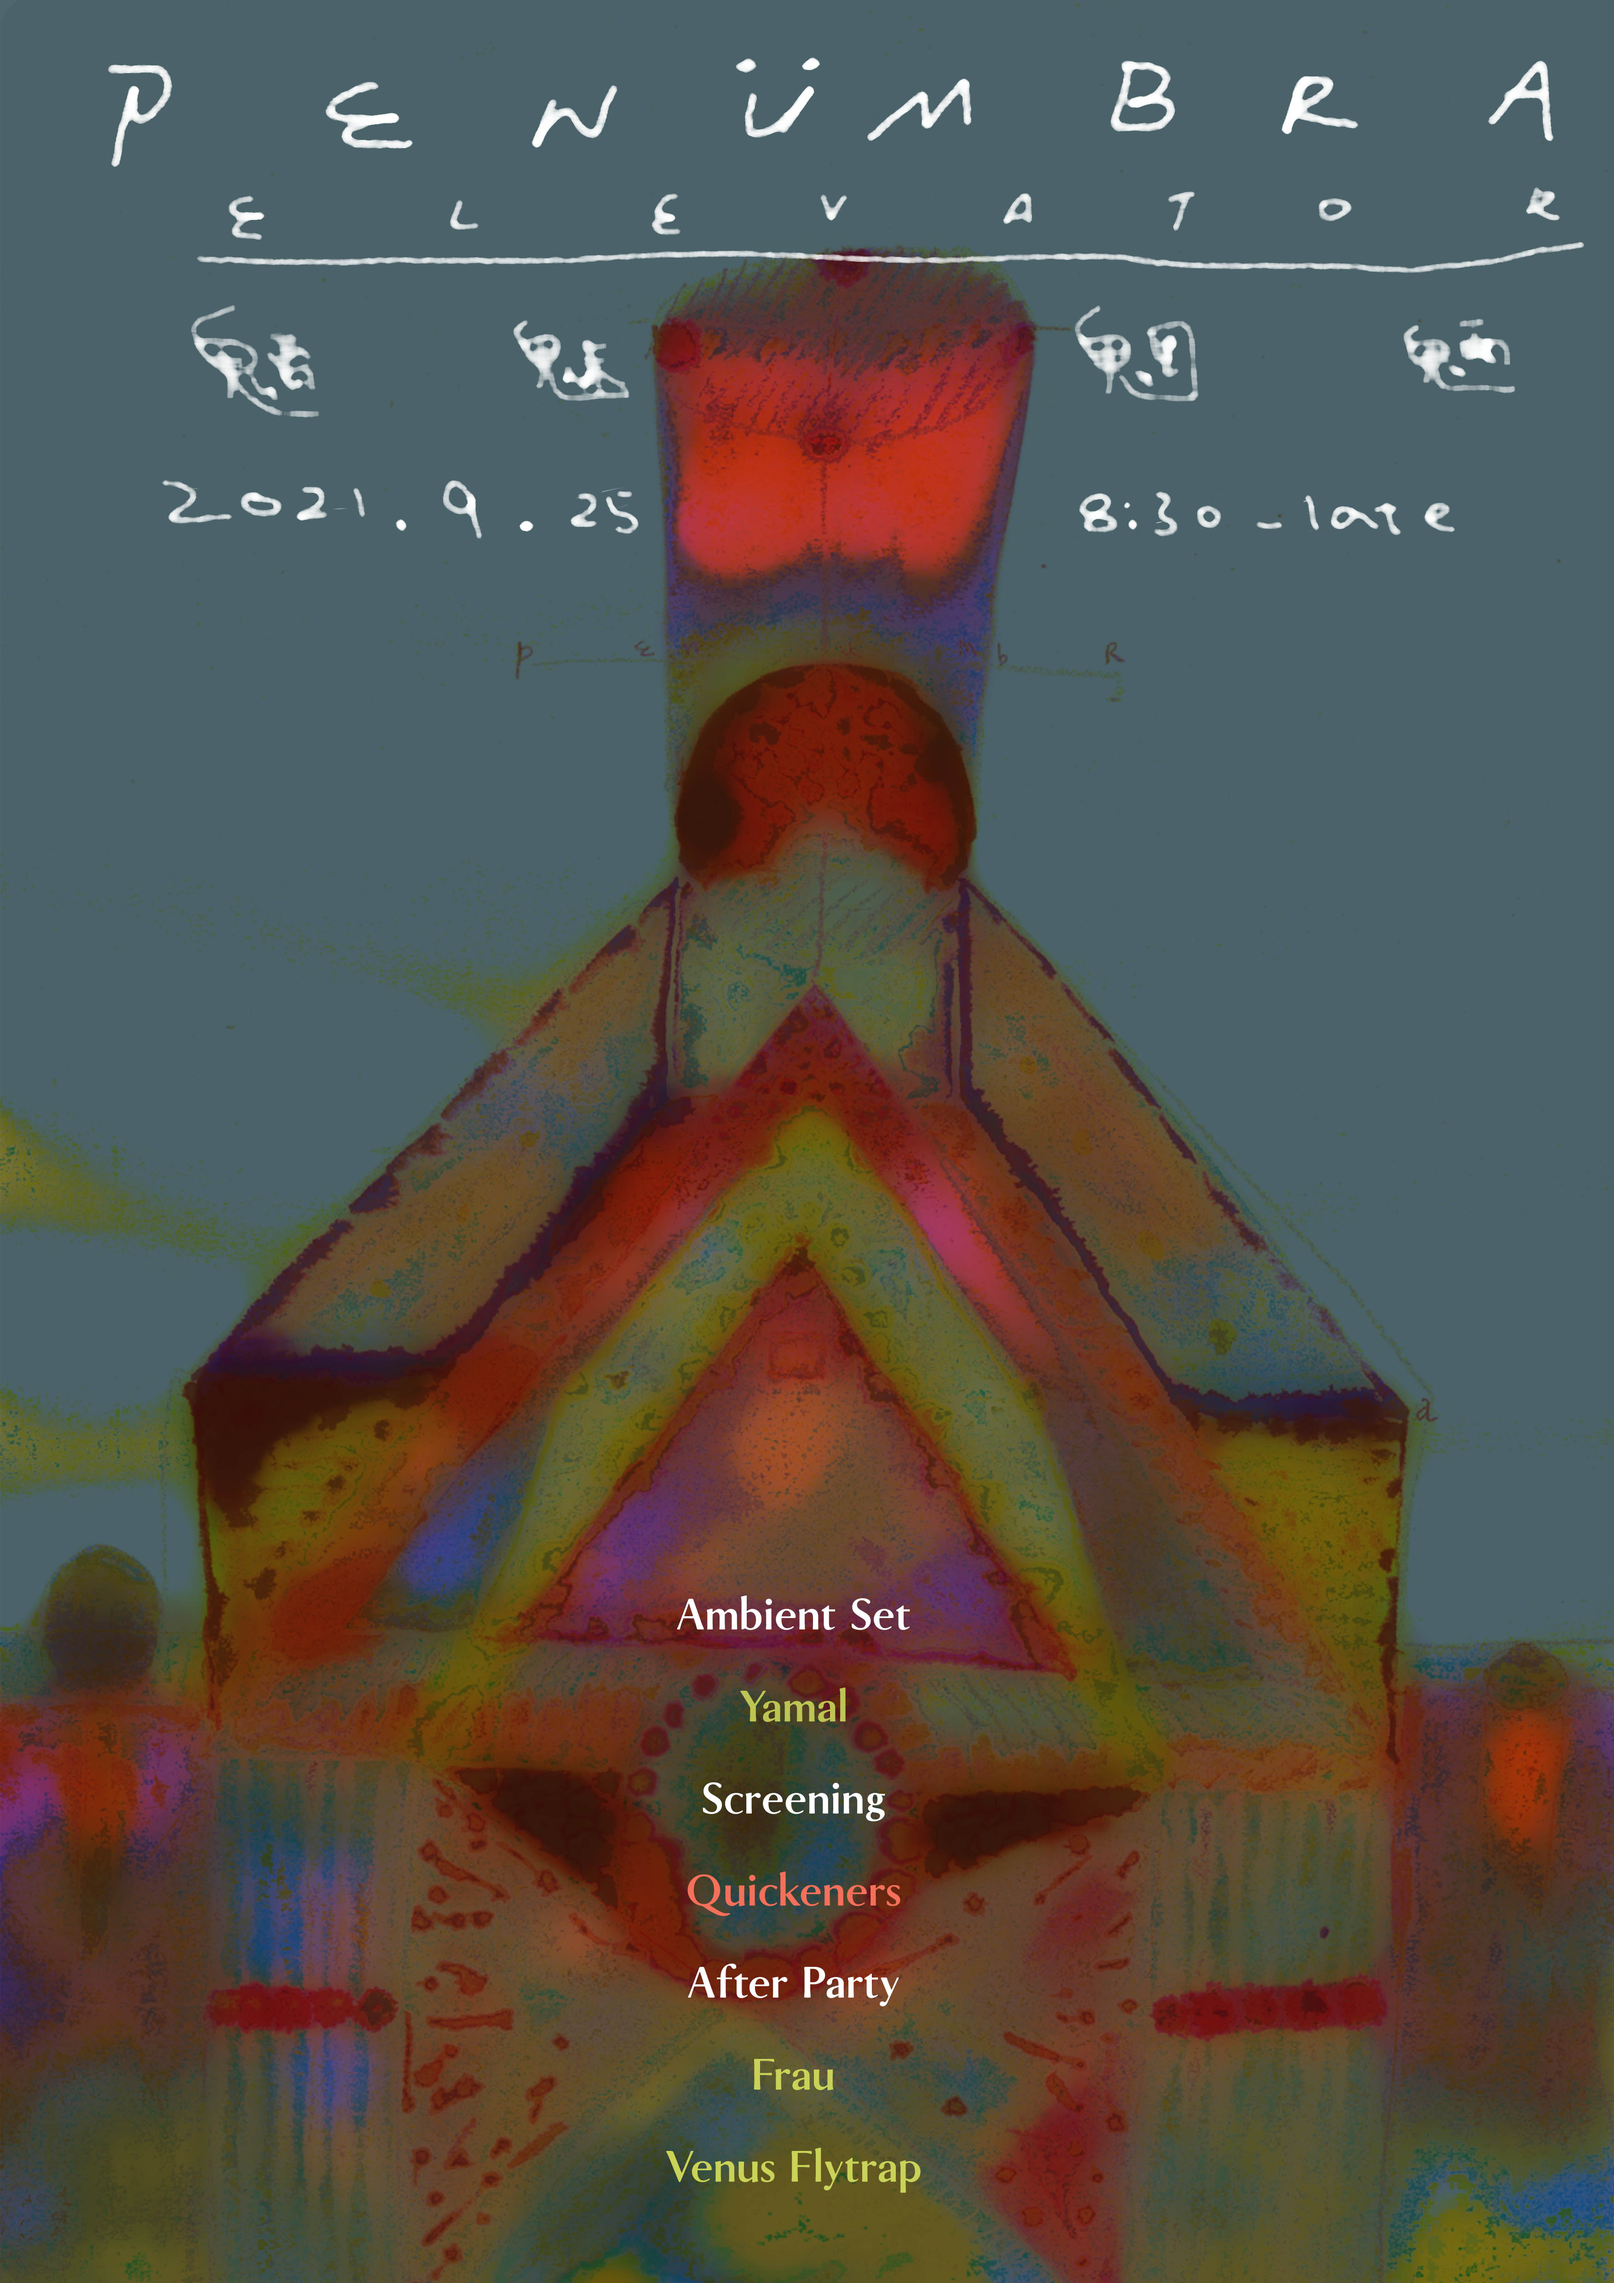
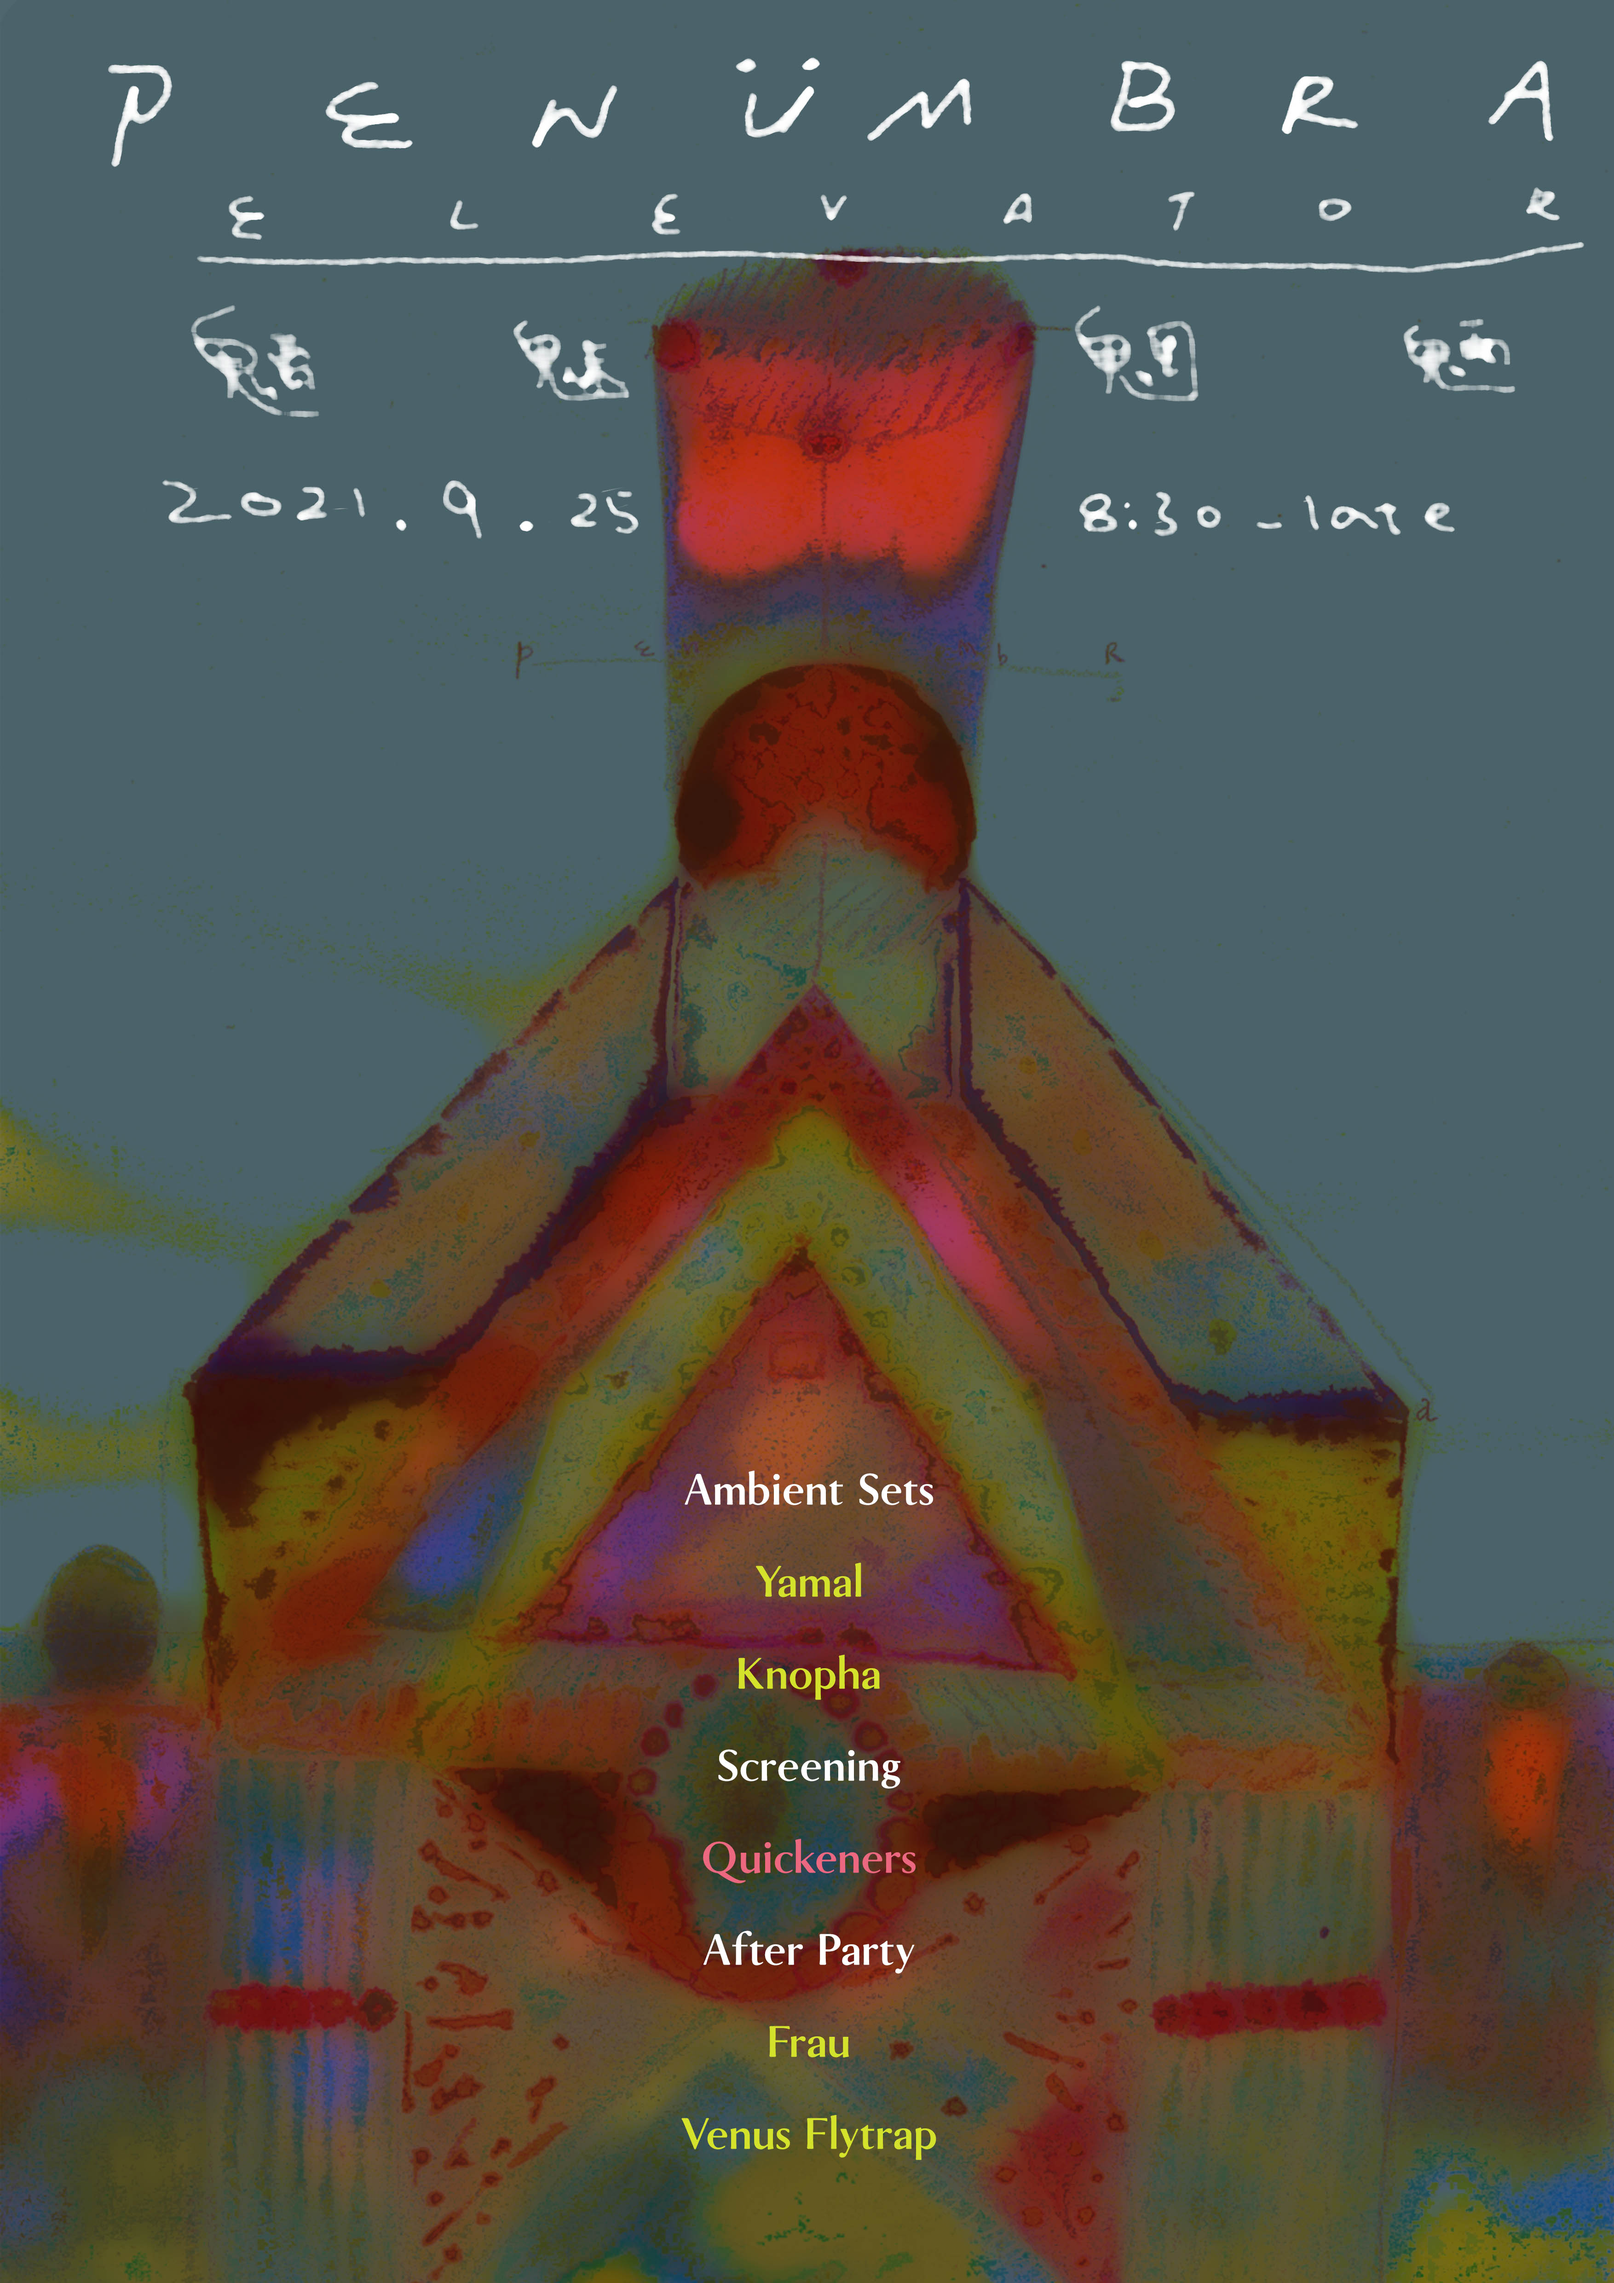
Add Knopha.

Changed region(s): [[0.4039, 0.6874, 0.5904, 0.9686], [0.435, 0.6249, 0.4971, 0.6561]]

diff --git a/_posts/projects/2021-09-21-penumbra-2.md b/_posts/projects/2021-09-21-penumbra-2.md
@@ -46,4 +46,4 @@ images:
 
 
 ---
-<p>For the second iteration of Penumbra, <a href="https://www.instagram.com/zuihitsu/">Yamal</a> will play an all vinyl ambient set, followed by a screening of Jeremy Shaw’s film <em>Quickeners</em> (2014), constructed with appropriated footage from the ethnographic film <em>Holy Ghost People</em> (1967), about a snake-handling Pentecostal community in rural USA. Transformed into a documentary set 500 years into the future, when humans have been replaced by a post-human collectivity called The Hive, the film describes a renegade community who seek Quickening, in which long extinct human rituals and their ecstatic states may be re-experienced. The soundtrack to the film itself contributes to the sense of post-human disorientation, with scrambled speech gradually transforming into a looming climax. At the afterparty controls will be <a href="https://soundcloud.com/frauhilda">Frau</a> and <a href="https://www.instagram.com/rachelrach_/">Venus Flytrap</a>, to preserve your ecstatic state.</p>
+<p>For the second iteration of Penumbra, <a href="https://www.instagram.com/zuihitsu/">Yamal</a> and <a href="https://www.instagram.com/knopha/">Knopha</a> will play ambient sets, followed by a screening of Jeremy Shaw’s film <em>Quickeners</em> (2014), constructed with appropriated footage from the ethnographic film <em>Holy Ghost People</em> (1967), about a snake-handling Pentecostal community in rural USA. Transformed into a documentary set 500 years into the future, when humans have been replaced by a post-human collectivity called The Hive, the film describes a renegade community who seek Quickening, in which long extinct human rituals and their ecstatic states may be re-experienced. The soundtrack to the film itself contributes to the sense of post-human disorientation, with scrambled speech gradually transforming into a looming climax. At the afterparty controls will be <a href="https://soundcloud.com/frauhilda">Frau</a> and <a href="https://www.instagram.com/rachelrach_/">Venus Flytrap</a>, to preserve your ecstatic state.</p>
